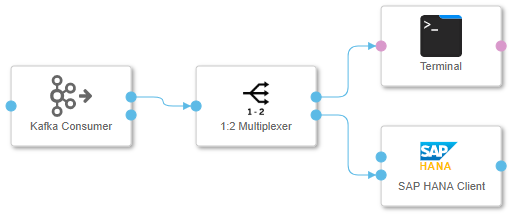
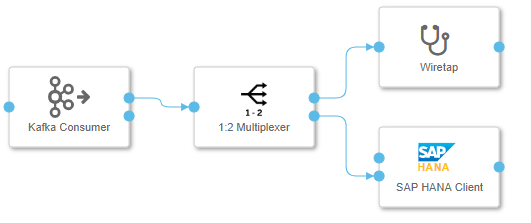
update

Changed region(s): [[0.0, 0.0275, 0.9752, 0.9633], [0.7924, 0.055, 0.8838, 0.3303], [0.4571, 0.3578, 0.5181, 0.5229]]

diff --git a/README.md b/README.md
@@ -17,3 +17,57 @@ Now we modfiy the graph to add Kafka into the pipline. This time we want to sepa
 ![](images/producer.png)
 
 ![](images/consumer.png)
+
+> I also changed the terminal operator to wiretap operator which shows more message information.
+
+Now, by incorporating Kafka into our pipeline, we are flexbilbe enough to debug and test our pipeline.
+
+### 3. Produce sensor data
+Run the producer graph for a while, then stop it. The generated messages will be retained in Kafka. We stop its running because we do not want to run it indefinitely which will waste the kafka broker resource. The generated data is enough for our testing purpose. 
+
+### 4. Message delivery guarantee
+Now we want to see the message delivery guarantee the pipeline can provide using different configurations.
+
+Add more operators into the pipeline like below.
+
+![](images/consumer1.png)
+
+- "Wiretap 1" traces the output messages from Kafka directly.
+- "Message Operator" handles the receieved message and send the result to the downstream operator. It also has a debug port used for receieving a terminal signal.
+- "Wiretap 2" traces the outout messages ingested into HANA.
+- "Terminal" operator sends a signal to "Message Operator" to indicate the graph termination.
+
+> The debug port of "Message Operator" is for acceptting an input from the terminal operator, upon receieve the input, the "Message Operator" will terminte its execution and finally cause the graph dead. This is to simulate an error occur in the pipeline execution. as I mentioned before in an   
+
+The script code for the "Message Operator" like below:
+```
+var terminate = false;
+
+function sleep(millisecondsToWait) {
+  var now = new Date().getTime();
+  while(new Date().getTime() < now + millisecondsToWait) {}
+}
+
+
+function onInput(ctx,s) {
+    if(terminate) {
+        $.fail("unexpected value received");
+    }
+    sleep(5000);
+    $.output(s);
+}
+
+function onDebug(ctx, s) {
+    terminate = true;
+}
+
+$.setPortCallback("input",onInput);
+$.setPortCallback("debug",onDebug);
+```
+
+In the follong setctions, we will use the different configuration to see different Message delivery guarantee.
+
+#### 4.1. At most once delivery guarantee
+Config Kafka consumer like the below figure:
+
+![](images/KafkaConsumerAtMostOnceConfig.png)
